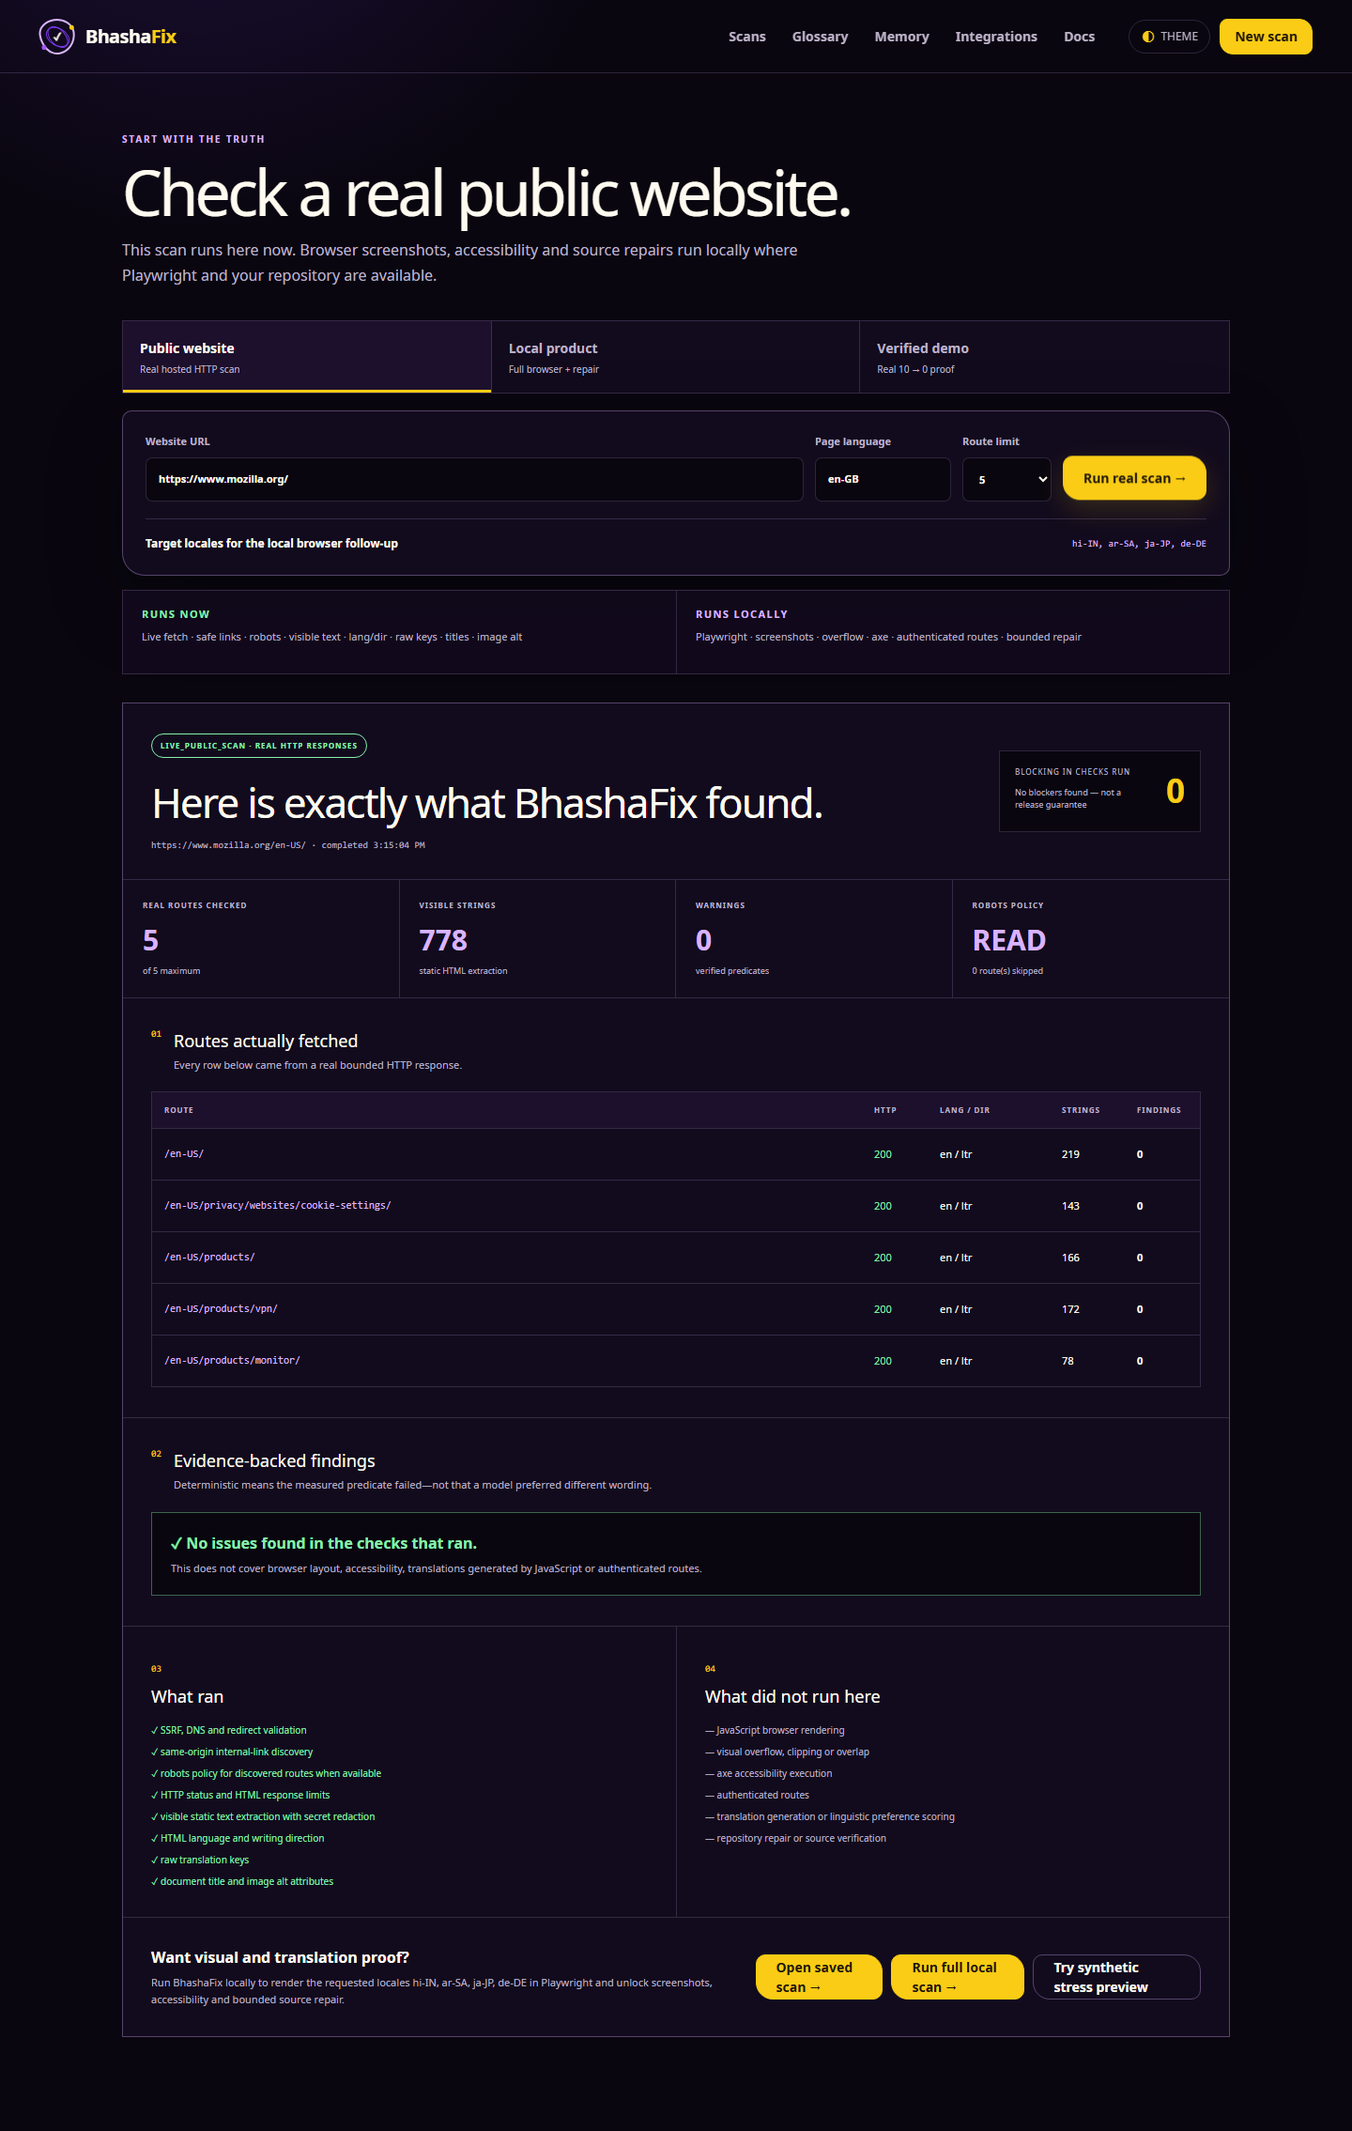
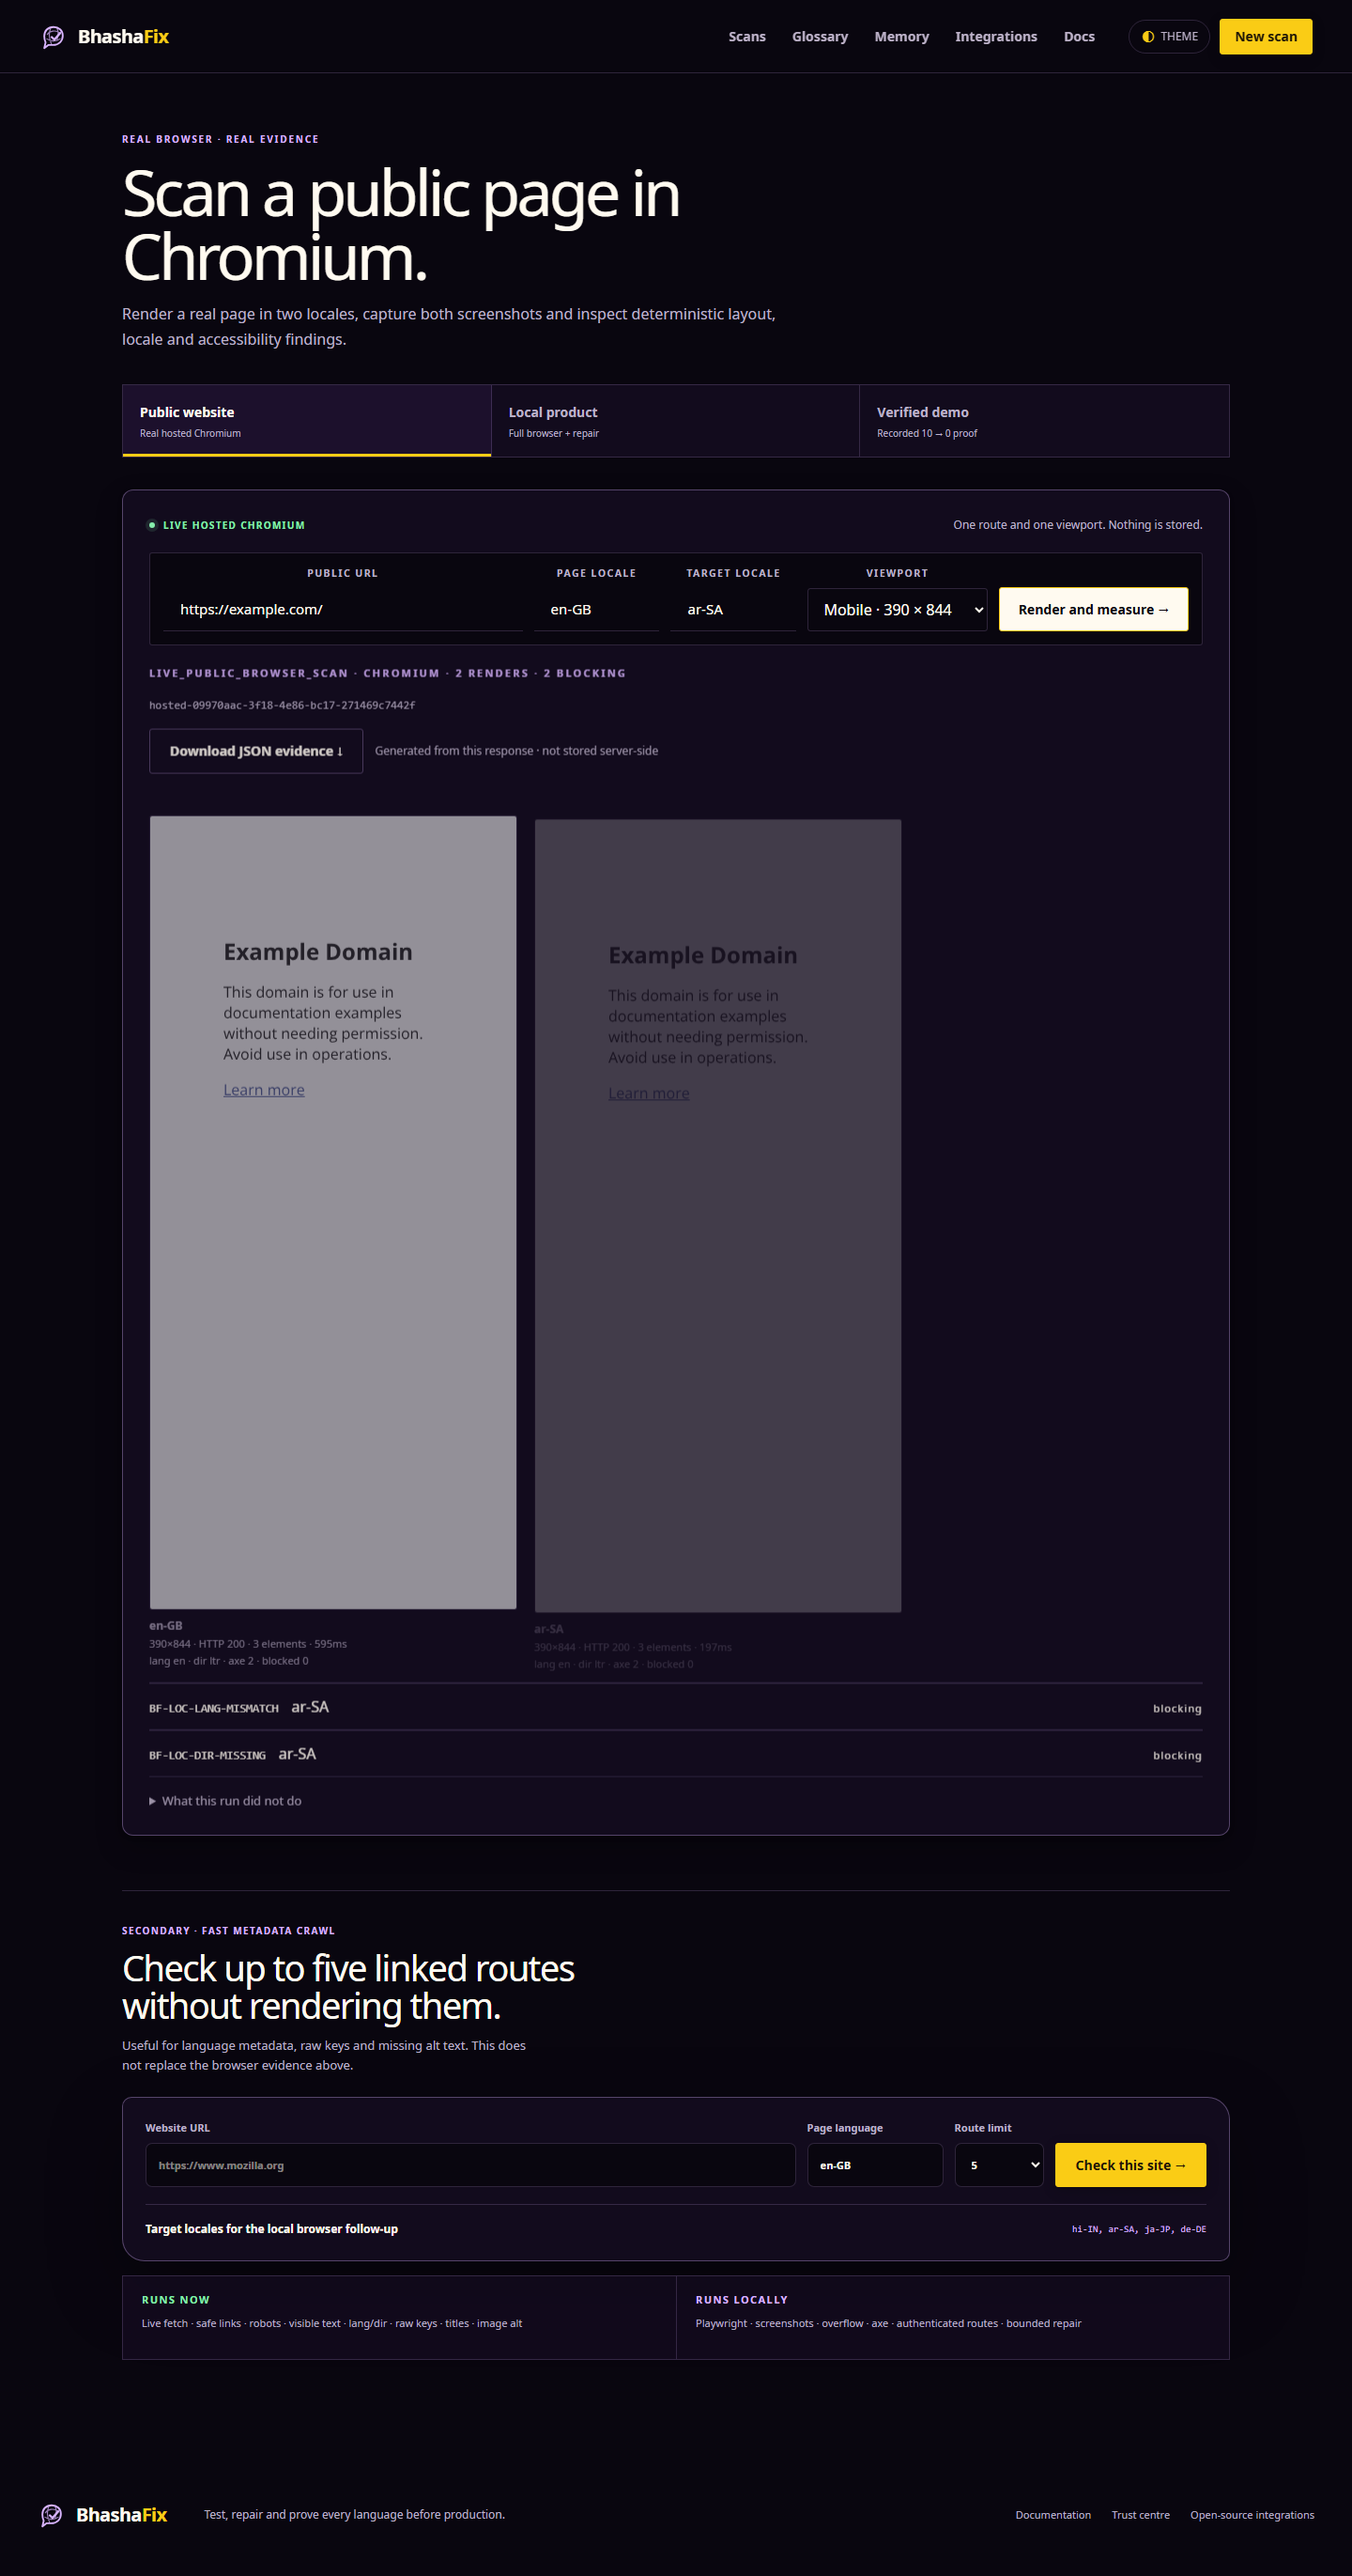
docs: capture production Chromium evidence

diff --git a/scripts/prepare-submission.ts b/scripts/prepare-submission.ts
@@ -45,13 +45,11 @@ if (releaseEvidence.status !== "PASS") {
   throw new Error("Submission requires a passing hostile release receipt.");
 }
 
-// The static HTTP preflight receipt is produced by `pnpm scan:live:smoke`,
-// which needs a running server and outbound network and is deliberately not
-// part of `verify`. This is separate from the bounded hosted-Chromium path at
-// POST /api/scan/browser, which is exercised against production by
-// `pnpm production:smoke`. `artifacts/` is gitignored, so on a clean checkout
-// the preflight receipt is absent. Record that honestly instead of crashing or
-// implying either scan happened in this process.
+// The production Chromium receipt is produced by `pnpm scan:live:smoke`,
+// which needs a deployed/running server and outbound network and is therefore
+// deliberately not part of local `verify`. `artifacts/` is gitignored, so on a
+// clean checkout the receipt is absent. Record that honestly instead of
+// implying a hosted scan happened in this process.
 const livePublicScanRaw = await readFile(
   path.join(root, "artifacts/live-public-scan-receipt.json"),
   "utf8",
@@ -64,19 +62,25 @@ const livePublicScan = (livePublicScanRaw === null
   scanId: string;
   origin: string;
   target: string;
-  routes: Array<{ route: string; status: number; strings: number }>;
   routesChecked: number;
-  stringsExtracted: number;
+  localesRendered: number;
+  renders: number;
+  measuredElements: number;
   verifiedBlocking: number;
-  staticHttpOnly: boolean;
+  browserRendered: boolean;
+  axeExecuted: boolean;
   viewportOverflow: number;
   consoleErrors: string[];
 };
 if (
   livePublicScan !== null &&
   (livePublicScan.status !== "PASS" ||
-    livePublicScan.routesChecked < 2 ||
-    livePublicScan.stringsExtracted < 1 ||
+    livePublicScan.routesChecked !== 1 ||
+    livePublicScan.localesRendered < 2 ||
+    livePublicScan.renders < 2 ||
+    livePublicScan.measuredElements < 1 ||
+    livePublicScan.browserRendered !== true ||
+    livePublicScan.axeExecuted !== true ||
     livePublicScan.viewportOverflow !== 0 ||
     livePublicScan.consoleErrors.length !== 0)
 ) {
@@ -84,7 +88,7 @@ if (
 }
 if (livePublicScan === null) {
   console.warn(
-    "prepare-submission: no live public-scan receipt in artifacts/; recording it as not produced in this run. Run `pnpm scan:live:smoke` to generate one.",
+    "prepare-submission: no production Chromium receipt in artifacts/; recording it as not produced in this run. Run `pnpm scan:live:smoke` to generate one.",
   );
 }
 
@@ -233,7 +237,8 @@ Generated: ${new Date().toISOString()}
 | Clean packed CLI and MCP install | PASS | ${releaseEvidence.packages.tarballs.join(", ")} |
 | Global locale registry | PASS | ${releaseEvidence.packages.localeRegistry} representative BCP 47 locales |
 | Hosted Chromium quick-scan contract | BOUNDED | \`POST /api/scan/browser\`: one route, bounded locales, one viewport, real PNG screenshots, DOM measurement and axe; verify deployment with \`pnpm production:smoke\` |
-| Hosted static HTTP preflight | ${livePublicScan ? "PASS" : "NOT RUN"} | ${livePublicScan ? `${livePublicScan.routesChecked} real routes, ${livePublicScan.stringsExtracted} visible strings, ${livePublicScan.verifiedBlocking} blockers in checks run` : "no receipt in artifacts/; run `pnpm scan:live:smoke`"} |
+| Production Chromium receipt | ${livePublicScan ? "PASS" : "NOT RUN"} | ${livePublicScan ? `${livePublicScan.renders} real renders, ${livePublicScan.measuredElements} measured elements, ${livePublicScan.verifiedBlocking} blockers in checks run` : "no receipt in artifacts/; run `pnpm scan:live:smoke`"} |
+| Hosted static HTTP preflight | AVAILABLE | Secondary metadata crawl at \`POST /api/scan\`; explicitly not browser evidence |
 | Baseline deterministic defects | PASS | ${proof.baselineBlocking} |
 | Final blocking defects | PASS | ${proof.finalBlocking} |
 | Source-locale regression | PASS | ${proof.sourceLocaleRegression} |
@@ -252,8 +257,8 @@ Generated: ${new Date().toISOString()}
 The repair counts are release-contract results for the bundled AtlasPay
 vertical slice. The hosted product also runs a bounded real-Chromium quick
 scan; full route x locale x viewport matrices, persisted artifacts and source
-repair remain local. The separate HTTP preflight receipt is static evidence,
-not browser evidence or a universal translation-quality benchmark.
+repair remain local. The separate HTTP preflight remains a secondary metadata
+crawl, not browser evidence or a universal translation-quality benchmark.
 `;
 
 const liveScanEvidence = `# Live public scan evidence
@@ -295,24 +300,23 @@ contract is exercised with:
 Full route x locale x viewport matrices, authenticated coverage, persisted
 artifacts and repository repair run through the local CLI.
 
-## Hosted static HTTP preflight receipt
+## Production hosted Chromium receipt
 
 ${
   livePublicScan === null
-    ? "No hosted HTTP preflight receipt ran in this build. `pnpm scan:live:smoke` needs a running server and outbound network, so it is not part of `pnpm verify`, and no receipt was found in `artifacts/`. Nothing about it is claimed here."
+    ? "No production Chromium receipt ran in this build. `pnpm scan:live:smoke` needs a deployed/running server and outbound network, so it is not part of local `pnpm verify`, and no receipt was found in `artifacts/`. Nothing about it is claimed here."
     : `| Field | Verified value |
 | --- | --- |
 | Scan ID | \`${livePublicScan.scanId}\` |
 | Origin | \`${livePublicScan.origin}\` |
 | Target | \`${livePublicScan.target}\` |
 | Real routes checked | ${livePublicScan.routesChecked} |
-| Visible strings extracted | ${livePublicScan.stringsExtracted} |
+| Locales rendered | ${livePublicScan.localesRendered} |
+| Real Chromium renders | ${livePublicScan.renders} |
+| DOM elements measured | ${livePublicScan.measuredElements} |
 | Blocking findings in checks run | ${livePublicScan.verifiedBlocking} |
-| Browser rendering | Not run in hosted static mode |
-
-## Discovered responses
-
-${livePublicScan.routes.map((route) => `- \`${route.route}\` — HTTP ${route.status}; ${route.strings} strings`).join("\n")}`
+| Browser rendering | PASS |
+| axe execution | PASS |`
 }
 
 ## Actual screenshots
@@ -320,10 +324,9 @@ ${livePublicScan.routes.map((route) => `- \`${route.route}\` — HTTP ${route.st
 - \`submission/screenshots/09-live-public-product.png\`
 - \`submission/screenshots/10-live-public-product-proof.png\`
 
-These two packaged screenshots show the static-preflight workspace, not the
-target screenshots returned by \`POST /api/scan/browser\`. The production smoke
-asserts that the hosted Chromium response contains two real screenshots. Full
-matrices and durable evidence remain local.
+These two packaged screenshots show the deployed browser-scan workspace and
+the target screenshots returned by \`POST /api/scan/browser\`. Full matrices,
+durable artifacts and repository repair remain local.
 `;
 
 await writeFile(

diff --git a/submission/LIVE_SCAN_EVIDENCE.md b/submission/LIVE_SCAN_EVIDENCE.md
@@ -1,6 +1,6 @@
 # Live public scan evidence
 
-Generated: 2026-08-03T00:10:39.458Z
+Generated: 2026-08-03T00:16:04.163Z
 
 ## Browser-backed scans of real public sites
 
@@ -32,32 +32,26 @@ contract is exercised with:
 Full route x locale x viewport matrices, authenticated coverage, persisted
 artifacts and repository repair run through the local CLI.
 
-## Hosted static HTTP preflight receipt
+## Production hosted Chromium receipt
 
 | Field | Verified value |
 | --- | --- |
-| Scan ID | `web-cf3f08be-2b34-4fb9-9b2f-387fd05a29db` |
-| Origin | `LIVE_PUBLIC_SCAN` |
-| Target | `https://www.mozilla.org/en-US/` |
-| Real routes checked | 5 |
-| Visible strings extracted | 778 |
-| Blocking findings in checks run | 0 |
-| Browser rendering | Not run in hosted static mode |
-
-## Discovered responses
-
-- `/en-US/` — HTTP 200; 219 strings
-- `/en-US/privacy/websites/cookie-settings/` — HTTP 200; 143 strings
-- `/en-US/products/` — HTTP 200; 166 strings
-- `/en-US/products/vpn/` — HTTP 200; 172 strings
-- `/en-US/products/monitor/` — HTTP 200; 78 strings
+| Scan ID | `hosted-09970aac-3f18-4e86-bc17-271469c7442f` |
+| Origin | `LIVE_PUBLIC_BROWSER_SCAN` |
+| Target | `https://example.com/` |
+| Real routes checked | 1 |
+| Locales rendered | 2 |
+| Real Chromium renders | 2 |
+| DOM elements measured | 6 |
+| Blocking findings in checks run | 2 |
+| Browser rendering | PASS |
+| axe execution | PASS |
 
 ## Actual screenshots
 
 - `submission/screenshots/09-live-public-product.png`
 - `submission/screenshots/10-live-public-product-proof.png`
 
-These two packaged screenshots show the static-preflight workspace, not the
-target screenshots returned by `POST /api/scan/browser`. The production smoke
-asserts that the hosted Chromium response contains two real screenshots. Full
-matrices and durable evidence remain local.
+These two packaged screenshots show the deployed browser-scan workspace and
+the target screenshots returned by `POST /api/scan/browser`. Full matrices,
+durable artifacts and repository repair remain local.

diff --git a/submission/EVAL_RESULTS.md b/submission/EVAL_RESULTS.md
@@ -1,13 +1,14 @@
 # BhashaFix evaluation results
 
-Generated: 2026-08-03T00:10:39.457Z
+Generated: 2026-08-03T00:16:04.162Z
 
 | Release gate | Result | Evidence |
 | --- | --- | --- |
 | Clean packed CLI and MCP install | PASS | bhashafix-cli-0.2.0.tgz, bhashafix-mcp-0.2.0.tgz |
 | Global locale registry | PASS | 17 representative BCP 47 locales |
 | Hosted Chromium quick-scan contract | BOUNDED | `POST /api/scan/browser`: one route, bounded locales, one viewport, real PNG screenshots, DOM measurement and axe; verify deployment with `pnpm production:smoke` |
-| Hosted static HTTP preflight | PASS | 5 real routes, 778 visible strings, 0 blockers in checks run |
+| Production Chromium receipt | PASS | 2 real renders, 6 measured elements, 2 blockers in checks run |
+| Hosted static HTTP preflight | AVAILABLE | Secondary metadata crawl at `POST /api/scan`; explicitly not browser evidence |
 | Baseline deterministic defects | PASS | 10 |
 | Final blocking defects | PASS | 0 |
 | Source-locale regression | PASS | PASS |
@@ -26,5 +27,5 @@ Generated: 2026-08-03T00:10:39.457Z
 The repair counts are release-contract results for the bundled AtlasPay
 vertical slice. The hosted product also runs a bounded real-Chromium quick
 scan; full route x locale x viewport matrices, persisted artifacts and source
-repair remain local. The separate HTTP preflight receipt is static evidence,
-not browser evidence or a universal translation-quality benchmark.
+repair remain local. The separate HTTP preflight remains a secondary metadata
+crawl, not browser evidence or a universal translation-quality benchmark.

diff --git a/submission/MCP_MCPC_EVIDENCE.md b/submission/MCP_MCPC_EVIDENCE.md
@@ -1,6 +1,6 @@
 # MCP and MCPC evidence
 
-Generated: 2026-08-03T00:10:39.457Z
+Generated: 2026-08-03T00:16:04.162Z
 
 The 10-to-0 repair sequence below is explicitly scoped to the bundled AtlasPay
 fixture. It proves that external MCP clients can drive the guarded fixture
